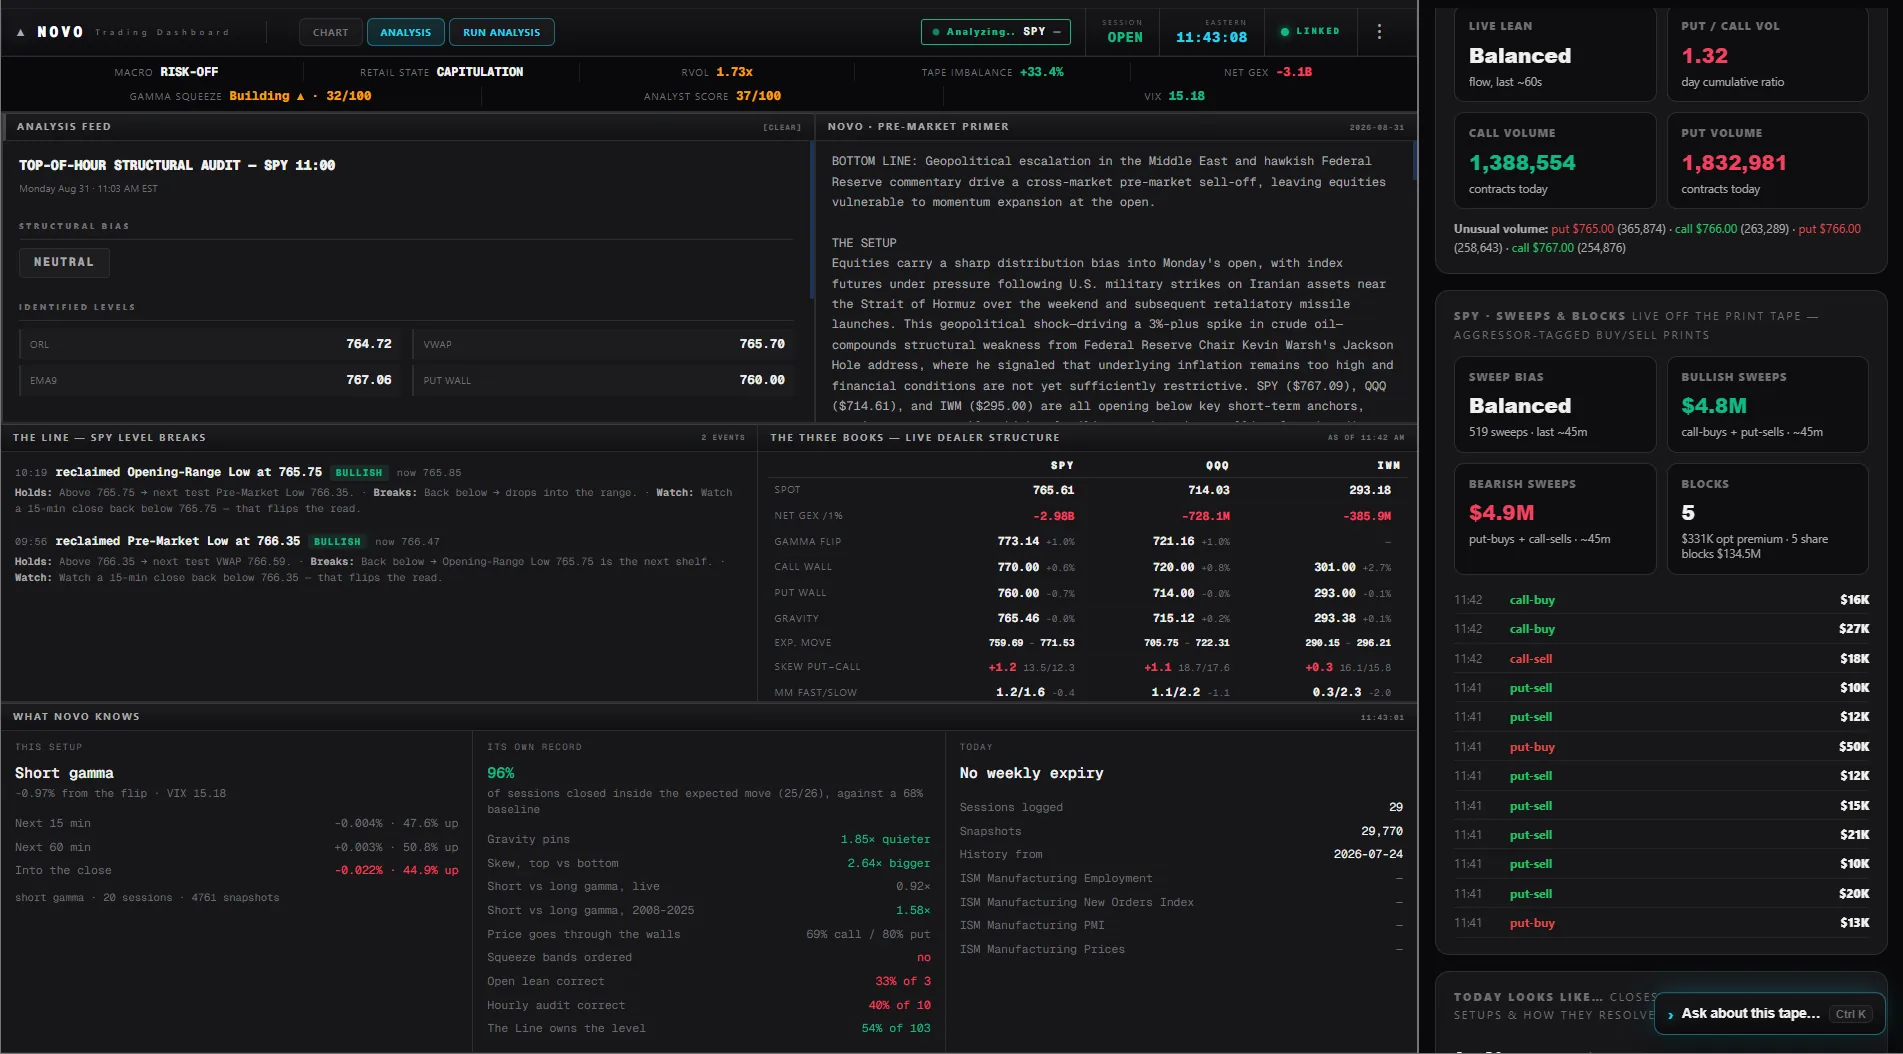
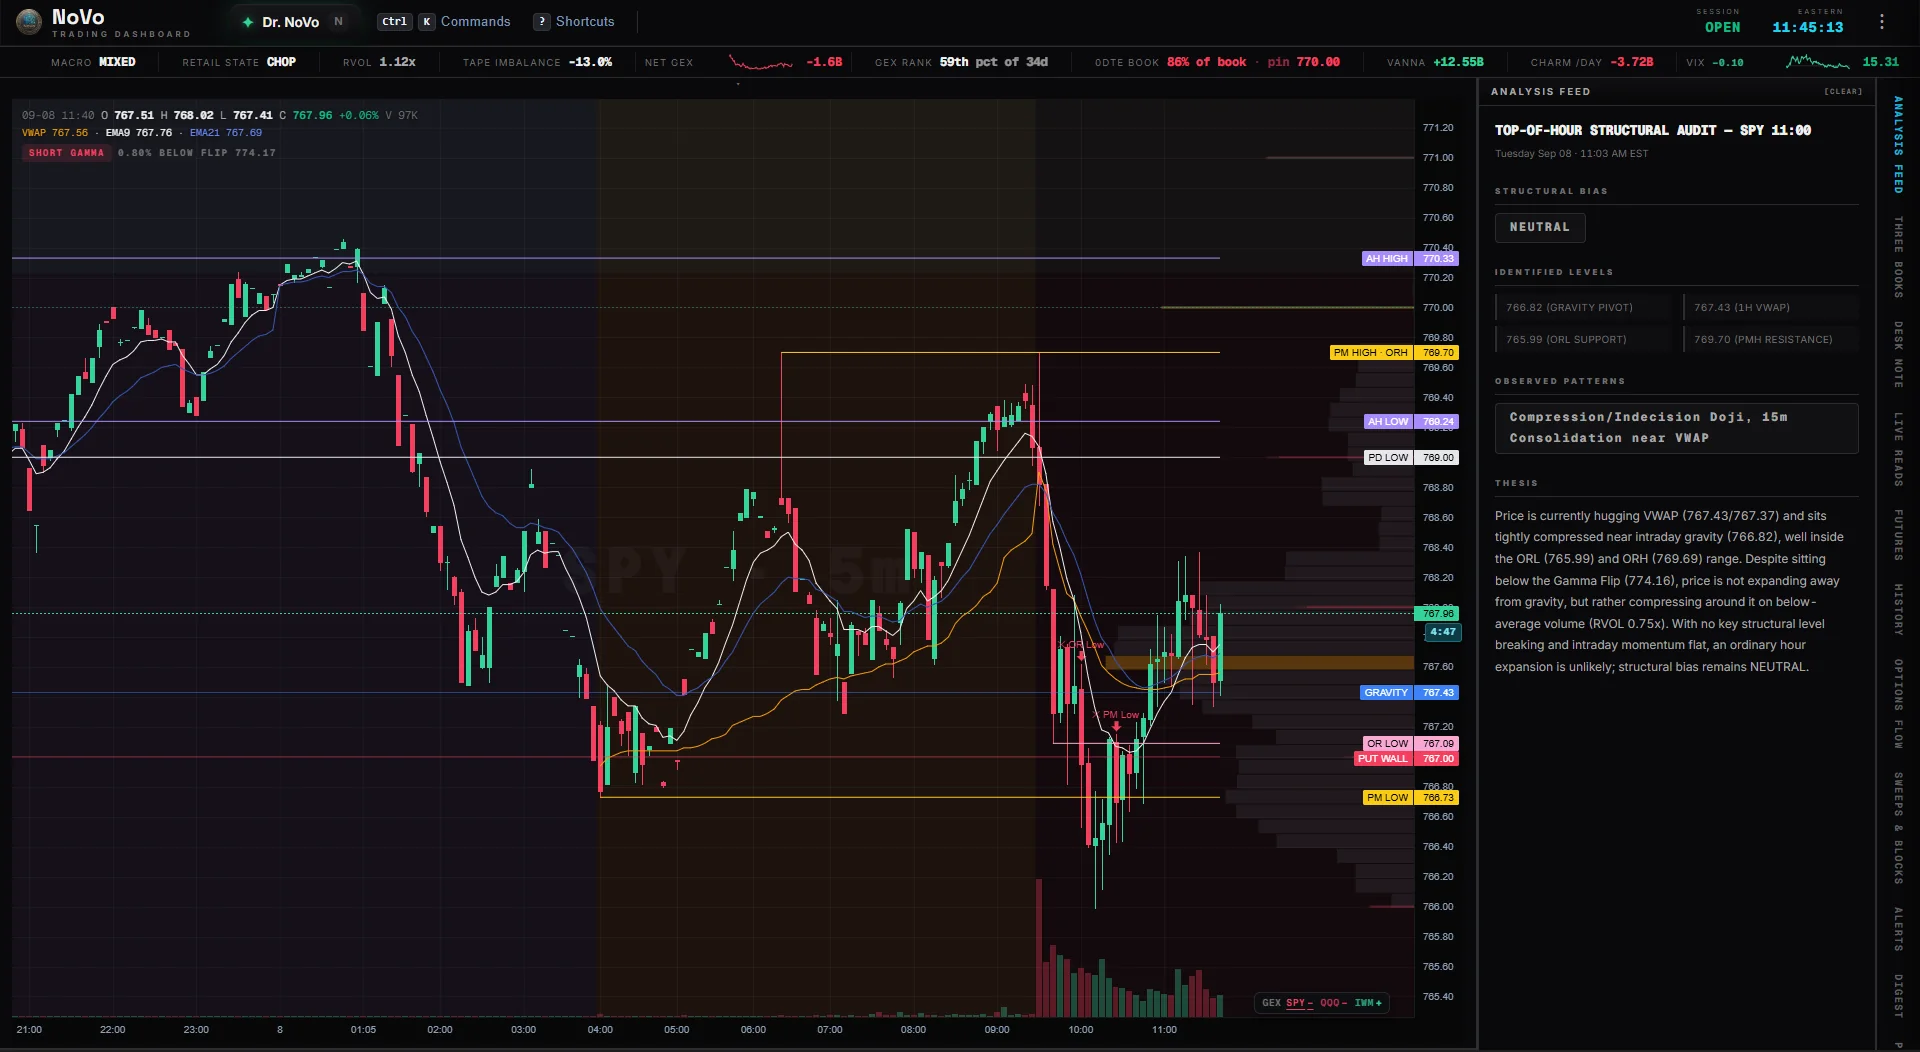
/trader: Jake's 09-08 captures, cropped and placed — six of nine used
Jake: "here is a bunch of trader ui shots they will need the edges cropped but use
them where they look good ... dont not just paste a pic on the site thats not pro."

THE CROP, MEASURED. The Windows title bar is the same near-grey as the app, so
brightness cannot find it. Found by TONE instead: the chrome band sits at row mean
~24 and the app's own background drops to ~10 the row below. Phone chrome ends
y=36, desktop y=28. The phone captures also carry a single bright column at the
right edge (mean 55 against the app's 6); desktop has none. Crops: phone
(0,36,501,1080), desktop (0,28,1920,1080).

THE HERO WAS ALREADY STALE AGAIN, ONE DAY OLD. The right-hand rail became TABBED
in this build - the new captures show a vertical strip of nine (Analysis feed,
Three Books, Desk Note, Live Reads, Futures, History, Options flow, Sweeps &
blocks, Alerts, Digest) - and yesterday's hero predates it. Replaced with the same
screen showing the Three Books rail open, which /trader and /plans both sell by
name and nothing on the site had ever shown.

The three phone cards were stale for the same reason: yesterday's bottom bar read
CHART / ANALYSIS / DR. NOVO, the new one reads More / Chart / Dr. NoVo / Digest /
Alerts. Now the chart with the Market Intel sheet pulled up, the Dr. NoVo tab
mid-deep-read, and the Alerts tab with 'The Line' actually firing on two SPY level
breaks - which beats an empty state.

NOT A PASTED PIC. The right rail is tabbed, so one capture can only ever show one
[…]

diff --git a/public/trader.html b/public/trader.html
@@ -311,6 +311,8 @@ j.src='https://www.googletagmanager.com/gtm.js?id='+i+dl;f.parentNode.insertBefo
   /* ── Features ── */
   .features-grid { display: grid; grid-template-columns: repeat(2, 1fr); gap: 16px; }
   .feature { display: flex; gap: 14px; border-radius: 8px; padding: 20px; }
+  /* the two-rail exhibit collapses to one column before the frames get too small to read as anything */
+  @media (max-width: 820px) { .rail-pair { grid-template-columns: 1fr !important; } }
   .feature-icon { font-size: 20px; flex-shrink: 0; margin-top: 2px; }
   .feature h4 { font-size: 14px; font-weight: 700; color: var(--txt1); margin-bottom: 4px; }
   .feature p { font-size: 13px; color: var(--txt2); line-height: 1.5; }
@@ -637,11 +639,11 @@ nav { position: relative; }
 </style>
 
     <div class="hero-mashup">
-      <div class="hm-back"><img src="/screenshots/trader-live-desk.webp?v=6" width="1905" height="1048" alt="The Trader terminal &mdash; the SPY 5-minute chart with every dealer level drawn on the candles and the short-gamma read pinned to the pane, under the full intel strip: macro regime, retail state, relative volume, tape imbalance, net GEX with its percentile rank against the last 33 days, how much of the book is 0DTE and where it pins, vanna and charm &mdash; beside the rail: what this same setup resolved to historically, the expected move, put/call and near-versus-far skew, vanna and charm exposure, the VIX fear gauge ranked against its own year, and the live options-flow read with the day&rsquo;s unusual-volume strikes" loading="eager" fetchpriority="high" decoding="async"></div>
+      <div class="hm-back"><img src="/screenshots/trader-live-desk.webp?v=7" width="1920" height="1052" alt="The Trader terminal &mdash; the SPY chart with every dealer level drawn on the candles, under the intel strip carrying net GEX and its percentile rank, how much of the book is 0DTE and where it pins, vanna and charm &mdash; beside the Three Books rail: SPY, QQQ and IWM dealer structure side by side, each with net GEX, the gamma flip, the call and put walls, gravity, the expected move, put/call skew and the market-maker fast-slow split" loading="eager" fetchpriority="high" decoding="async"></div>
       <div class="hm-fan">
-        <div class="hm-card" style="transform:rotate(-11deg);z-index:4;"><img src="/screenshots/trader-live-chart.webp?v=4" width="500" height="1046" alt="Trader on a phone &mdash; the chart tab &mdash; the SPY / QQQ / IWM switcher over the live 5-minute chart with the dealer levels drawn and the short-gamma read pinned to the pane, and Market Intel beneath it: VIX, macro regime, retail state, relative volume, tape imbalance, net GEX with its percentile rank, how much of the book is 0DTE and where it pins, vanna and charm" loading="lazy" decoding="async"></div>
-        <div class="hm-card" style="transform:rotate(0deg) translateY(14px);z-index:3;margin-left:-46px;"><img src="/screenshots/trader-live-analysis.webp?v=3" width="500" height="1047" alt="Trader on a phone &mdash; the analysis tab &mdash; the overnight structural audit on ES futures into the Asian open, with its macro bias, the levels it identified, the patterns it observed and its written thesis, then the weekly outlook and &lsquo;The Line&rsquo; level-break playbook" loading="lazy" decoding="async"></div>
-        <div class="hm-card" style="transform:rotate(11deg) translateY(14px);z-index:2;margin-left:-46px;"><img src="/screenshots/trader-live-drnovo.webp?v=1" width="498" height="1046" alt="Trader on a phone &mdash; the Dr. NoVo tab &mdash; the AI market analyst answering where VIX sits against its own history since 1990, off the live book: the percentile across 9,270 samples, the term structure in contango, the index tape across SPY, QQQ and IWM, and where the 24-hour crypto liquidations landed &mdash; with follow-up prompts underneath" loading="lazy" decoding="async"></div>
+        <div class="hm-card" style="transform:rotate(-11deg);z-index:4;"><img src="/screenshots/trader-live-chart.webp?v=5" width="501" height="1044" alt="Trader on a phone &mdash; the chart tab with the SPY / QQQ / IWM switcher and the timeframe row, and the Market Intel sheet pulled up over it: every chart level from VWAP and the gamma flip to the walls and the expected move, the session&rsquo;s highs and lows, then VIX, macro, retail state, relative volume, tape imbalance, net GEX with its percentile rank, the 0DTE share and its pin, vanna and charm" loading="lazy" decoding="async"></div>
+        <div class="hm-card" style="transform:rotate(0deg) translateY(14px);z-index:3;margin-left:-46px;"><img src="/screenshots/trader-live-analysis.webp?v=4" width="501" height="1044" alt="Trader on a phone &mdash; the Alerts tab &mdash; &lsquo;The Line&rsquo; firing on SPY level breaks, each with what holds, what breaks and what to watch, above the member&rsquo;s own armed alerts and Dr. NoVo&rsquo;s edge-cleared ones" loading="lazy" decoding="async"></div>
+        <div class="hm-card" style="transform:rotate(11deg) translateY(14px);z-index:2;margin-left:-46px;"><img src="/screenshots/trader-live-drnovo.webp?v=3" width="501" height="1044" alt="Trader on a phone &mdash; the Dr. NoVo tab answering a request for a deep read: a bifurcated market called in plain English, the structural shifts since yesterday with the walls that moved, and an IWM read down to its flip, walls, gravity, ATM IV and expected move &mdash; with the tools he checked named above the answer" loading="lazy" decoding="async"></div>
       </div>
     </div>
     <p style="font-size:11px;color:var(--txt3);text-align:center;margin:18px auto 34px;">The dashboard and the phone app &mdash; the whole dealer map, drawn on the tape as it moves.</p>
@@ -835,12 +837,15 @@ nav { position: relative; }
       </div>
     </div>
 
-    <!-- The desk's ANALYSIS view — the visual proof of cards 02 and 03 above: the hourly audit,
-         the Three Books, and What NoVo Knows with its sample sizes, all on one live screen. -->
-    <div class="hm-back" style="max-width:900px;margin:38px auto 0;transform:none;">
-      <img src="/screenshots/trader-live-desk-analysis.webp?v=2" width="1903" height="1054" alt="The Trader terminal's Analysis view &mdash; the top-of-hour structural audit and NoVo's pre-market primer, 'The Line' level-break playbooks, the Three Books showing SPY, QQQ and IWM dealer structure side by side down to skew and the market-maker hedging split, and What NoVo Knows: the setup's own logged record with sample sizes" loading="lazy" decoding="async">
-    </div>
-    <p style="font-size:11px;color:var(--txt3);text-align:center;margin:14px auto 0;">The Analysis view &mdash; the audit, the Three Books, and the setup&rsquo;s own record, one screen.</p>
+    <!-- TWO RAILS, ONE SCREEN (2026-09-08). The right-hand rail is tabbed, so a single
+         capture can only ever show one of it. These are the same terminal a minute apart:
+         the top-of-hour audit, and the print tape. Grid rather than two stacked blocks so
+         they read as one exhibit and collapse to a column on a phone. -->
+      <div class="rail-pair" style="max-width:1180px;margin:38px auto 0;display:grid;grid-template-columns:repeat(2,minmax(0,1fr));gap:18px;align-items:start;">
+        <div class="hm-back" style="margin:0;transform:none;max-width:none;"><img src="/screenshots/trader-live-desk-analysis.webp?v=3" width="1920" height="1052" alt="The Trader terminal&rsquo;s Analysis feed &mdash; the top-of-hour structural audit on SPY with its structural bias, the levels it identified, the patterns it observed, and the written thesis behind them" loading="lazy" decoding="async"></div>
+        <div class="hm-back" style="margin:0;transform:none;max-width:none;"><img src="/screenshots/trader-sweeps-blocks.webp?v=1" width="1920" height="1052" alt="The Trader terminal&rsquo;s Sweeps &amp; blocks rail &mdash; the sweep bias with bullish and bearish sweep totals and the block count, above the live print tape: each aggressor-tagged sweep with its side, its size and how many venues it crossed" loading="lazy" decoding="async"></div>
+      </div>
+      <p style="font-size:11px;color:var(--txt3);text-align:center;margin:14px auto 0;">The same screen, a different rail &mdash; the top-of-hour audit, and the aggressor-tagged print tape.</p>
 
     <!-- SCREENSHOT GALLERY — restored 2026-06-26 with v4.3 blurred shots (rebuilt by build_shots.py). -->
     <p style="text-align:center;font-size:13px;color:var(--txt2);margin:44px auto 0;max-width:640px;letter-spacing:.4px;font-weight:600;">Installs like an app on desktop &amp; mobile — add the dashboard to your home screen and run the whole system like a native app. No app store, no download.</p>
